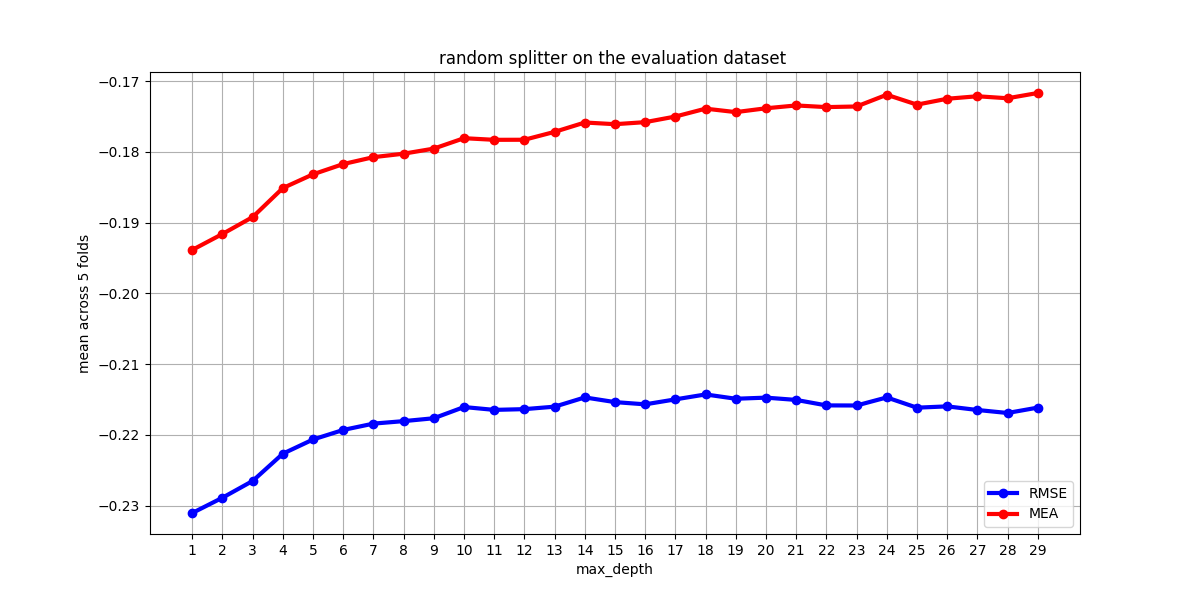
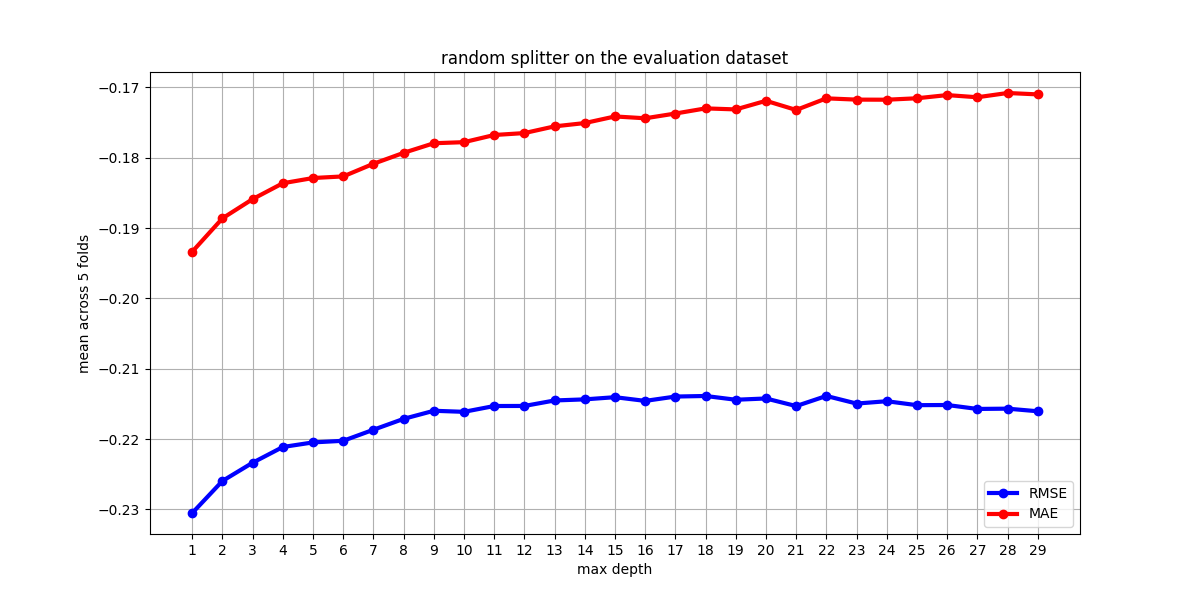
refactor the plotting code

diff --git a/projekt/find_DT_parameters.py b/projekt/find_DT_parameters.py
@@ -2,9 +2,10 @@ import pandas as pd
 from sklearn.tree import DecisionTreeRegressor
 from preprocessing import build_model
 from evaluation import evaluate_experiments,perform_grid_search_cv
-from dataset_statistics import plot_error_scores
+from dataset_statistics import plot_results
 
-MAX_DEPTH_UPPER = 20
+
+MAX_DEPTH_UPPER = 30
 # criterion absolute error is deliberately left out 
 # b.c computing one cross validation already took a long time
 evaluation_parameter = {
@@ -12,10 +13,12 @@ evaluation_parameter = {
                 "param_to_test":[{"model__max_depth":list(range(1,MAX_DEPTH_UPPER)),
                 "model__criterion":["squared_error","friedman_mse"]}]
 }
+
+
 def optimize_parameter():
     """optimze a decision tree with the parameters 
     stored in evaluation_parameter using GridSearchCV"""
-    result_file_name = "evaluation_results/dt_evaluation2.csv"
+    result_file_name = "evaluation_results/dt_evaluation.csv"
     default_dt = build_model(get_dt_for_experiments())
     perform_grid_search_cv(evaluation_parameter,default_dt,result_file_name)
 
@@ -34,48 +37,54 @@ def optimize_min_split_samples():
     because tuning the parameters with Grid Search took a long time"""
     default_dt = get_dt_for_experiments()
     piped_model = build_model(default_dt)
-    piped_model.set_params(model__max_depth=7)
+    piped_model.set_params(model__max_depth=9)
     RMSE_results = []
     MEA_results = []
     for i in range(2,4):
-        piped_model.set_params(model__min_samples_split=i)
-        # TODO: decide wether to use training results 
-        _,RMSE_result,_,MEA_result = evaluate_experiments(piped_model)
+        piped_model.set_params(model__min_samples_split=i) 
+        RMSE_result,MEA_result = evaluate_experiments(piped_model)
         RMSE_results.append(RMSE_result)
         MEA_results.append(MEA_result)
     RMSE_results = pd.Series(RMSE_results)
     MEA_results = pd.Series(MEA_results)
     print(f"RMSE mean across different min_samples_split {RMSE_results.mean()} std {RMSE_results.std()}")
-    print(f" MEA  mean across different min_samples_split {MEA_results.mean()} std {RMSE_results.std()}")
+    print(f" MEA  mean across different min_samples_split {MEA_results.mean()} std {MEA_results.std()}")
 
 def get_dt_for_experiments():
     """ always return the same decision tree that 
     can be used for testing some hyperparemeters"""
     return  DecisionTreeRegressor(random_state=0)
 
-def plot_results_dt():
-    cv_results = pd.read_csv("evaluation_results/dt_parameter.csv")
-    scores = evaluation_parameter["evaluation_metrics"]
-    columns_to_use = [dataset+"_"+metric for dataset in ["mean_train","mean_test"] for metric in scores]
-    print(columns_to_use)
-    columns_to_use.append("param_model__max_depth")
-    cv_results = cv_results[columns_to_use]
-    MSE_results = cv_results[0:MAX_DEPTH_UPPER-1]
-    FMSE_results = cv_results[MAX_DEPTH_UPPER-1:]
-    print(MSE_results)
-    print("="*42)
-    print(FMSE_results)
-    MSE_train_results = MSE_results[columns_to_use[0:2]]
-    MSE_test_results  = MSE_results[columns_to_use[2:4]]
-    FMSE_train_results = FMSE_results[columns_to_use[0:2]]
-    FMSE_test_results  = FMSE_results[columns_to_use[2:4]]
-    plot_error_scores(MSE_train_results,MSE_results["param_model__max_depth"],"Max_depth on the training dataset ","max_depth","mean across 5 folds")
-    plot_error_scores(MSE_test_results,MSE_results["param_model__max_depth"],"Max_depth on the evaluation dataset ","max_depth","mean across 5 folds")
-    plot_error_scores(FMSE_train_results,MSE_results["param_model__max_depth"],"Max_depth on the training dataset ","max_depth","Mean  across 5 Folds")
-    plot_error_scores(FMSE_test_results,MSE_results["param_model__max_depth"],"Max_depth on the evaluation dataset ","max_depth","Mean  across 5 Folds")
+
+def get_optimized_dt():
+    return DecisionTreeRegressor(random_state=0,max_depth=9)
+
+def evaluate_default_decision_tree():
+    dt = get_dt_for_experiments()
+    piped_dt = build_model(dt)
+    RMSE_result,MEA_result = evaluate_experiments(piped_dt)
+    return RMSE_result,MEA_result
+
+
+def select_criterion_results(cv_results):
+    results = [cv_results[0:MAX_DEPTH_UPPER-1],cv_results[MAX_DEPTH_UPPER-1:]]
+    results_description =["MSE criterion","Friedman MSE criterion"]
+    parameter_description="max_depth"
+    return results,results_description,parameter_description
+
+def select_splitter_results(cv_results):
+    results = [cv_results[::2],cv_results[1::2]]
+    results_description =["random splitter","best splitter"]
+    parameter_description="max_depth"
+    return results,results_description,parameter_description
+
 
 
 if __name__ =="__main__":
-    optimize_parameter()
-    optimze_splitter()
-    optimize_min_split_samples()
+    max_depth_range = list(range(1,MAX_DEPTH_UPPER))
+    plot_results("evaluation_results/dt_evaluation.csv",max_depth_range,select_criterion_results)
+    plot_results("evaluation_results/splitter_evaluation.csv",max_depth_range,select_splitter_results)
+    #optimize_parameter()
+    #optimze_splitter()
+    #optimize_min_split_samples()
+    #evaluate_default_decision_tree()

diff --git a/projekt/dataset_statistics.py b/projekt/dataset_statistics.py
@@ -7,38 +7,50 @@ def plot_valence_range():
     grouped_values = pd.cut(spotify_songs["valence"],bins=5)
     grouped_data = spotify_songs.groupby(grouped_values,observed=False).count()
     grouped_data = grouped_data["valence"]
-    plot_bar(grouped_data,"valence range","number of datapoints")
+    create_bar_plot(grouped_data,"valence Intervall","Anzahl an Datenpunkten")
 
-def plot_bar(data,x_label,y_label):
+def plot_valence_frequencies():
+    distribution = count_unique_valence_values()
+    grouped_frequencies = distribution.value_counts().sort_values(ascending=False)
+    grouped_frequencies = grouped_frequencies[3:]
+    create_bar_plot(grouped_frequencies,"number of occurence","frequency")
+
+
+def plot_error_scores(error_scores,parameter,plot_title,x_label,baselines=None):
+    plt.figure(figsize=(12, 6))
+    if baselines is not None:
+        for baseline_label,baseline in baselines.items():
+            baselines_values = [baseline for _ in range(0,len(parameter))]
+            plt.plot(parameter,baselines_values,marker='o', linestyle='-',linewidth=3,label=baseline_label)   
+    labels = error_scores.columns
+    for column_idx in range(0,len(error_scores.columns)):
+        plt.plot(parameter,error_scores.iloc[:,column_idx],marker='o', linestyle='-',linewidth=3,label=labels[column_idx])
+    plt.xlabel(x_label)
+    plt.ylabel("mean across 5 folds")
+    plt.title(plot_title)
+    plt.xticks(parameter)
+    plt.legend(loc="lower right")
+    plt.grid(True)
+    plt.show()
+
+
+def plot_results(file_name,parameter_range,select_results,baselines=[None,None]):
+    cv_results = pd.read_csv(file_name)
+    columns_to_use =["mean_test_neg_root_mean_squared_error","mean_test_neg_mean_absolute_error"]
+    cv_results = cv_results[columns_to_use] 
+    results,results_description,parameter_description = select_results(cv_results)
+    for results,criterion,baseline in zip(results,results_description,baselines): 
+        test_results = results[columns_to_use[0:2]]
+        test_results.columns = ["RMSE","MAE"]
+        plot_error_scores(test_results,parameter_range,f"{criterion} on the evaluation dataset",parameter_description,baseline)
+
+
+def create_bar_plot(data,x_label,y_label):
     ax = data.plot.bar(figsize=(18,18),rot=1)
     ax.set_ylabel(y_label)
     ax.set_xlabel(x_label)
     plt.show()
 
-def plot_valence_frequencies():
-    distribution = count_unique_valence_values()
-    grouped_frequencies = distribution.value_counts().sort_values(ascending=False)
-    print(grouped_frequencies.head(20))
-    first_twenty_most_freq_vals = distribution.iloc[0:20]
-    grouped_frequencies2 = grouped_frequencies[3:]
-    plot_bar(grouped_frequencies2,"number of occurence","frequency")
-
-def plot_error_scores(error_scores,parameter,plot_title,x_label,y_label):
-    plt.figure(figsize=(12, 6))
-    first_error_scores = error_scores.iloc[:,0]
-    second_error_scores = error_scores.iloc[:,1]
-    print("first",first_error_scores)
-    print("max",parameter)
-    #print("sec",second_error_scores)
-    plt.plot(parameter, first_error_scores, marker='o', linestyle='-',linewidth=3,color='b')
-    #plt.plot(parameter, second_error_scores, marker='o', linestyle='-', linewidth=3,color='r')
-    plt.xlabel(x_label)
-    plt.ylabel(y_label)
-    plt.title(plot_title)
-    plt.xticks(parameter)
-    #plt.legend()
-    plt.grid(True)
-    plt.show()
 
 def calculate_most_frequent_value():
     unique_combinations = count_unique_valence_values()
@@ -47,9 +59,7 @@ def calculate_most_frequent_value():
 def count_unique_valence_values():
     spotify_songs = create_dataset()
     unique_combinations = spotify_songs.groupby("valence").size().sort_values(ascending=False)
-    unique_combinations.to_csv("combinations_of_values.csv")
     return unique_combinations
 
-if __name__=="__main__":
-    #plot_valence_range()
-    plot_valence_frequencies()
+
+

diff --git a/projekt/evaluation.py b/projekt/evaluation.py
@@ -16,20 +16,23 @@ def evaluate_experiments(piped_model,custom_columns=None,dataset_loader=create_d
     if custom_columns is not None:
         spotify_songs = spotify_songs[custom_columns]
     X_train,_,y_train,_ = split_data(spotify_songs)
-    cv_score = cross_validate(piped_model,X_train,y_train,scoring=evaluation_metrics,cv=5,return_train_score=True)
+    cv_score = cross_validate(piped_model,X_train,y_train,scoring=evaluation_metrics,cv=5)
     full_results = pd.DataFrame(cv_score)
     return extract_RMSE_MEA_scores(full_results)
 
 def perform_grid_search_cv(evaluation_parameter,piped_model,result_file_name:str):
+    """" performs a grid search cv with the parameters stored in 
+    evaluation_parameter.The results are saved in result_file_name.csv 
+    due to potentially long execution times"""
     spotify_songs = create_dataset()
     X_train,_,y_train,_ = split_data(spotify_songs)
     scores = evaluation_parameter["evaluation_metrics"]
     param_to_test = evaluation_parameter["param_to_test"]
     cv_search = GridSearchCV(piped_model,param_to_test,n_jobs=-1,scoring=scores,
-                                refit=False,return_train_score=True)
+                                refit=False)
     cv_search.fit(X_train,y_train)
     df = pd.DataFrame(cv_search.cv_results_)
-    columns_to_use = [dataset+"_"+metric for dataset in ["mean_train","mean_test"] for metric in evaluation_metrics]
+    columns_to_use = ["mean_test_neg_root_mean_squared_error","mean_test_neg_mean_absolute_error"] 
     model_parameters = ["param_"+val for val in evaluation_parameter["param_to_test"][0].keys()]
     columns_to_use.extend(model_parameters)
     reduced_df = df[columns_to_use]
@@ -38,13 +41,11 @@ def perform_grid_search_cv(evaluation_parameter,piped_model,result_file_name:str
 
 def extract_RMSE_MEA_scores(full_cross_val_result):
     """ returns the train and test RMSE and MEA mean across 5 folds"""
-    columns_to_use = [dataset+"_"+metric for dataset in ["train","test"] for metric in evaluation_metrics]
+    columns_to_use = ["test_neg_root_mean_squared_error","test_neg_mean_absolute_error"] 
     cross_val_result = full_cross_val_result[columns_to_use]
-    train_MEA_across_5_folds  = cross_val_result["train_neg_mean_absolute_error"].mean()
-    train_RMSE_across_5_folds =  cross_val_result["train_neg_root_mean_squared_error"].mean()
     test_MEA_across_5_folds  = cross_val_result["test_neg_mean_absolute_error"].mean()
     test_RMSE_across_5_folds =  cross_val_result["test_neg_root_mean_squared_error"].mean()
-    print("test MEA std",cross_val_result["test_neg_mean_absolute_error"].std())
-    print("test RMSE std",cross_val_result["test_neg_root_mean_squared_error"].std())
-    return  train_RMSE_across_5_folds,test_RMSE_across_5_folds,train_MEA_across_5_folds,test_MEA_across_5_folds
+    #print("test MEA std",cross_val_result["test_neg_mean_absolute_error"].std())
+    #print("test RMSE std",cross_val_result["test_neg_root_mean_squared_error"].std())
+    return test_RMSE_across_5_folds,test_MEA_across_5_folds
 
